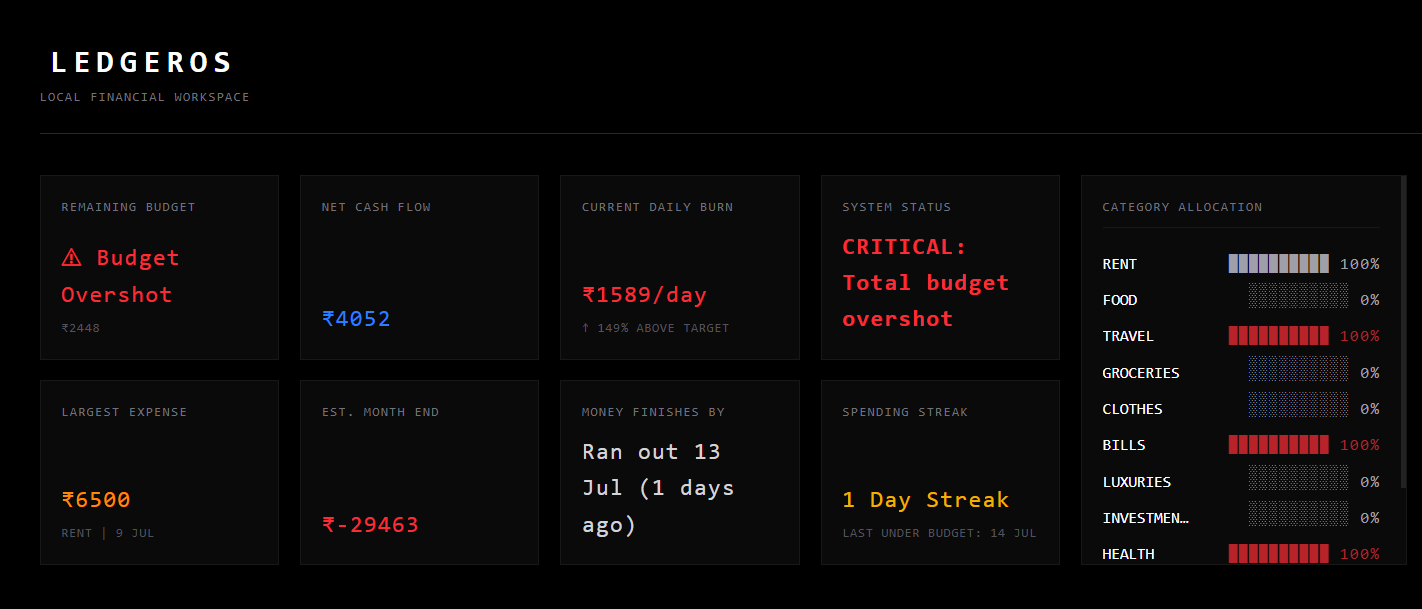
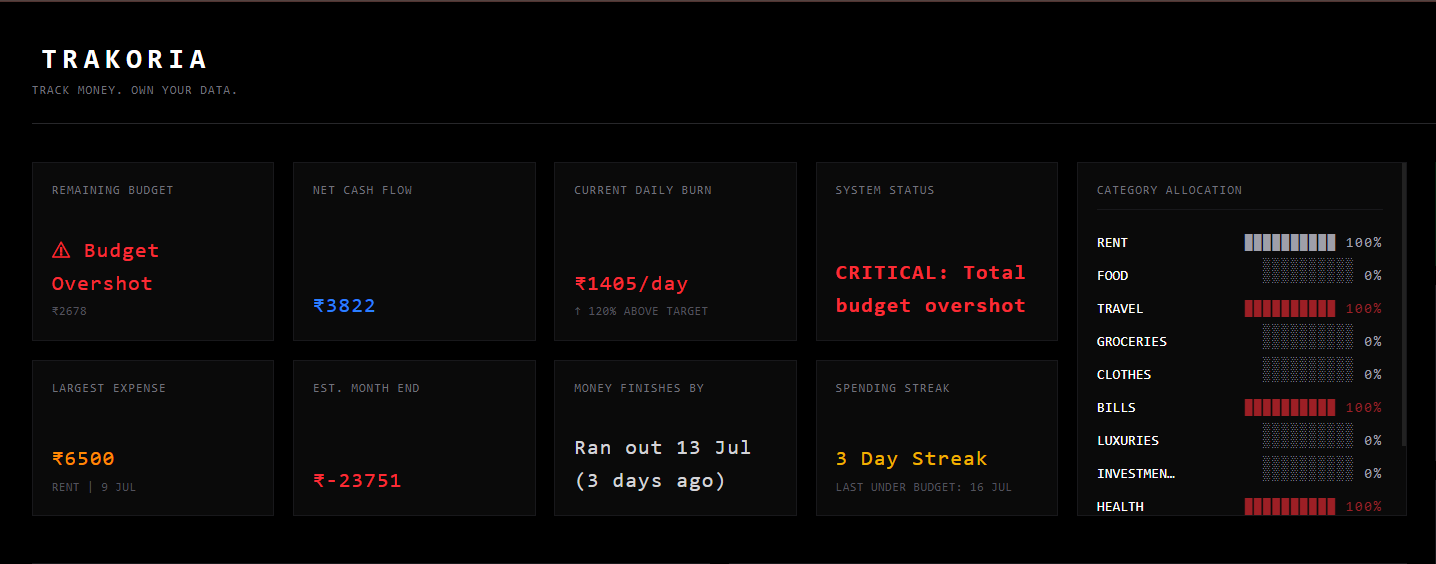
Added Readme and Screenshots

diff --git a/README.md b/README.md
@@ -1,72 +1,120 @@
-# 🖥 LedgerOS
+![React](https://img.shields.io/badge/React-19-61DAFB?logo=react)
 
-> ### Offline Financial Operating System
->
-> **Privacy First • Offline First • Terminal Inspired • Local SQLite Storage**
+![FastAPI](https://img.shields.io/badge/FastAPI-0.115-009688?logo=fastapi)
 
-LedgerOS is a terminal-inspired personal finance operating system built with **React**, **FastAPI**, and **SQLite**.
+![Offline First](https://img.shields.io/badge/Offline-First-success)
+<div align="center">
 
-Unlike traditional finance applications, LedgerOS never uploads your financial data to any cloud service. Everything runs locally on your machine, giving you complete ownership of your data while providing powerful analytics, budgeting, and financial insights.
+#  Trakoria
 
----
+### **Track Money. Own Your Data.**
 
-## 📸 Preview
+**Privacy First • Offline First • Local Storage • Terminal Inspired**
 
-### 🔒 Secure Lock Screen
+A modern, offline-first personal finance workspace built with **React**, **FastAPI**, and **SQLite**.
 
-![Lock Screen](screenshots/lockscreen.png)
+No cloud.
+No subscriptions.
+No tracking.
 
----
-
-### 📊 Dashboard
-
-![Dashboard](screenshots/dashboard.png)
+Your financial data stays on **your own machine**.
 
 ---
 
-### 📅 Calendar Heatmap
+![Hero](screenshots/dashboard.png)
 
-![Calendar](screenshots/calendar.png)
-
----
-
-### 📈 Analytics
-
-![Analytics](screenshots/analytics.png)
+</div>
 
 ---
 
-# ✨ Features
+# Features
 
-- 🔒 PIN Protected Access
-- 💻 Terminal Inspired User Interface
-- 📊 Real-time Financial Dashboard
-- 📅 Interactive Calendar Heatmap
+- 🔒 PIN Protected Authentication
+- 💻 Terminal Inspired Interface
+- 📊 Interactive Financial Dashboard
 - 📈 Daily Burn Rate Analytics
+- 📅 Spending Calendar Heatmap
+- 📉 Category Allocation Charts
 - 💰 Budget Tracking
 - 🔥 Spending Streak Tracking
-- 📉 Category Allocation Charts
 - 📜 Transaction Timeline
 - 🤖 Telegram Expense Logging
-- 💾 SQLite Database Snapshots
-- 📤 Export to CSV
-- 📤 Export to JSON
-- ⚡ FastAPI Backend
-- 💾 Offline SQLite Storage
-- 🔐 Privacy First Architecture
+- 💾 SQLite Database
+- 📤 CSV Export
+- 📤 JSON Export
+- 💽 SQLite Snapshot Backup
+- ⚡ FastAPI REST API
+- 🌙 Fully Offline
+- 🔐 Privacy First
 
 ---
 
-# 🏗 Architecture
+# 📸 Preview
+
+##  Secure Lock Screen
+
+<p align="center">
+<img src="screenshots/lockscreen.png" width="90%">
+</p>
+
+---
+
+##  Dashboard
+
+<p align="center">
+<img src="screenshots/dashboard.png" width="90%">
+</p>
+
+---
+
+##  Calendar Heatmap
+
+<p align="center">
+<img src="screenshots/calendar.png" width="90%">
+</p>
+
+---
+
+##  Analytics
+
+<p align="center">
+<img src="screenshots/analytics.png" width="90%">
+</p>
+
+---
+
+##  Data Operations
+
+<p align="center">
+<img src="screenshots/export.png" width="90%">
+</p>
+
+---
+
+#  Demo
+
+A short walkthrough of Trakoria.
+
+>  **Demo Video**
+
+```
+demo/demo.mp4
+```
+
+Watch a complete walkthrough of Trakoria.
+
+---
+
+#  Architecture
 
 ```text
                 React + Vite
                      │
                      ▼
-             FastAPI Backend
+              FastAPI Backend
                      │
                      ▼
-              SQLite Database
+               SQLite Database
                      ▲
                      │
           Telegram Expense Bot
@@ -74,12 +122,12 @@ Unlike traditional finance applications, LedgerOS never uploads your financial d
 
 ---
 
-# 🛠 Tech Stack
+#  Tech Stack
 
 | Layer | Technology |
 |--------|------------|
 | Frontend | React.js + Vite |
-| Styling | CSS + Tailwind CSS |
+| Styling | CSS |
 | Backend | FastAPI |
 | Language | Python |
 | Database | SQLite |
@@ -88,16 +136,18 @@ Unlike traditional finance applications, LedgerOS never uploads your financial d
 
 ---
 
-# 📂 Project Structure
+#  Project Structure
 
-```text
-LedgerOS/
+
+Trakoria/
 
 ├── frontend/
 │   ├── src/
 │   ├── public/
 │   ├── package.json
 │   └── vite.config.js
+│
+├── screenshots/
 │
 ├── api.py
 ├── bot.py
@@ -112,30 +162,27 @@ LedgerOS/
 
 ---
 
-# 🚀 Installation
+# Installation
 
-## 1⃣ Clone Repository
+## Clone Repository
 
 ```bash
-git clone https://github.com/Yash23001-stack/LedgerOS.git
+git clone https://github.com/Yash23001-stack/Trakoria.git
 
-cd LedgerOS
+cd Trakoria
 ```
 
 ---
 
-## 2⃣ Backend Setup
+## Backend
 
-Install Python dependencies
+Install dependencies
 
 ```bash
-pip install fastapi
-pip install uvicorn
-pip install python-dotenv
-pip install python-telegram-bot
+pip install fastapi uvicorn python-dotenv python-telegram-bot
 ```
 
-Run the backend
+Run server
 
 ```bash
 uvicorn api:app --reload
@@ -143,7 +190,7 @@ uvicorn api:app --reload
 
 ---
 
-## 3⃣ Frontend Setup
+## Frontend
 
 ```bash
 cd frontend
@@ -155,17 +202,17 @@ npm run dev
 
 ---
 
-## 4⃣ Open LedgerOS
+## Open Application
 
 ```
-http://localhost:5173
+http://localhost:5175
 ```
 
 ---
 
-# 🔐 Environment Variables
+#  Environment Variables
 
-Create a `.env` file in the project root.
+Create a `.env` file.
 
 ```env
 BOT_TOKEN=YOUR_TELEGRAM_BOT_TOKEN
@@ -174,23 +221,23 @@ APP_PIN=0000
 
 ---
 
-# 📤 Export Options
+#  Export Support
 
-LedgerOS supports
+Trakoria supports
 
 - CSV Export
 - JSON Export
 - SQLite Database Snapshot
 
-All generated completely offline.
+Everything is generated locally.
 
 ---
 
-# 🤖 Telegram Integration
+#  Telegram Integration
 
-LedgerOS supports logging expenses directly from Telegram.
+Log expenses directly from Telegram.
 
-Example:
+Example
 
 ```
 500 Tea
@@ -200,13 +247,13 @@ Example:
 Salary 20000
 ```
 
-The bot automatically categorizes and inserts the transaction into the local SQLite database.
+The bot parses the message and stores it directly into the local SQLite database.
 
 ---
 
-# 🔒 Privacy First
+#  Privacy First
 
-LedgerOS follows one simple philosophy.
+Trakoria follows one simple philosophy.
 
 ✅ No Cloud
 
@@ -222,50 +269,38 @@ LedgerOS follows one simple philosophy.
 
 Everything stays on **your own machine**.
 
----
-
-# 🛣 Roadmap
-
-- [x] Offline Dashboard
-- [x] PIN Authentication
-- [x] Telegram Integration
-- [x] CSV Export
-- [x] JSON Export
-- [x] SQLite Snapshot
-- [x] Calendar Heatmap
-- [x] Burn Rate Analytics
-- [ ] Transaction Search
-- [ ] PDF Reports
-- [ ] Desktop Version (Tauri)
-- [ ] Multi Profile Support
-- [ ] Budget Templates
 
 ---
 
-# 🌟 Why LedgerOS?
+# Why Trakoria?
 
-Most finance applications rely on cloud storage and online accounts.
+Most personal finance applications rely on cloud storage and online accounts.
 
-LedgerOS takes a different approach.
+Trakoria takes a different approach.
 
-Instead of storing your financial history on someone else's servers, LedgerOS keeps everything on your own device.
+Your financial data belongs to **you**, not a server.
 
-You own your data.
+Whether you're tracking daily expenses, planning a monthly budget, or reviewing spending habits, everything remains private and available offline.
 
-Always.
-
----
-
-# 👨💻 Author
-
-**Yash Bhandari**
-
-Built as a privacy-first personal finance operating system using React, FastAPI and SQLite.
-
-If you found this project interesting, consider giving it a ⭐ on GitHub.
+**Track Money. Own Your Data.**
 
 ---
 
-## 📜 License
+# Author
 
-This project is licensed under the MIT License.
+### Yash Bhandare
+
+Built with ❤ using
+
+- React
+- FastAPI
+- SQLite
+- Python
+
+If you found this project useful, consider giving it a ⭐.
+
+---
+
+#  License
+
+Licensed under the MIT License.
